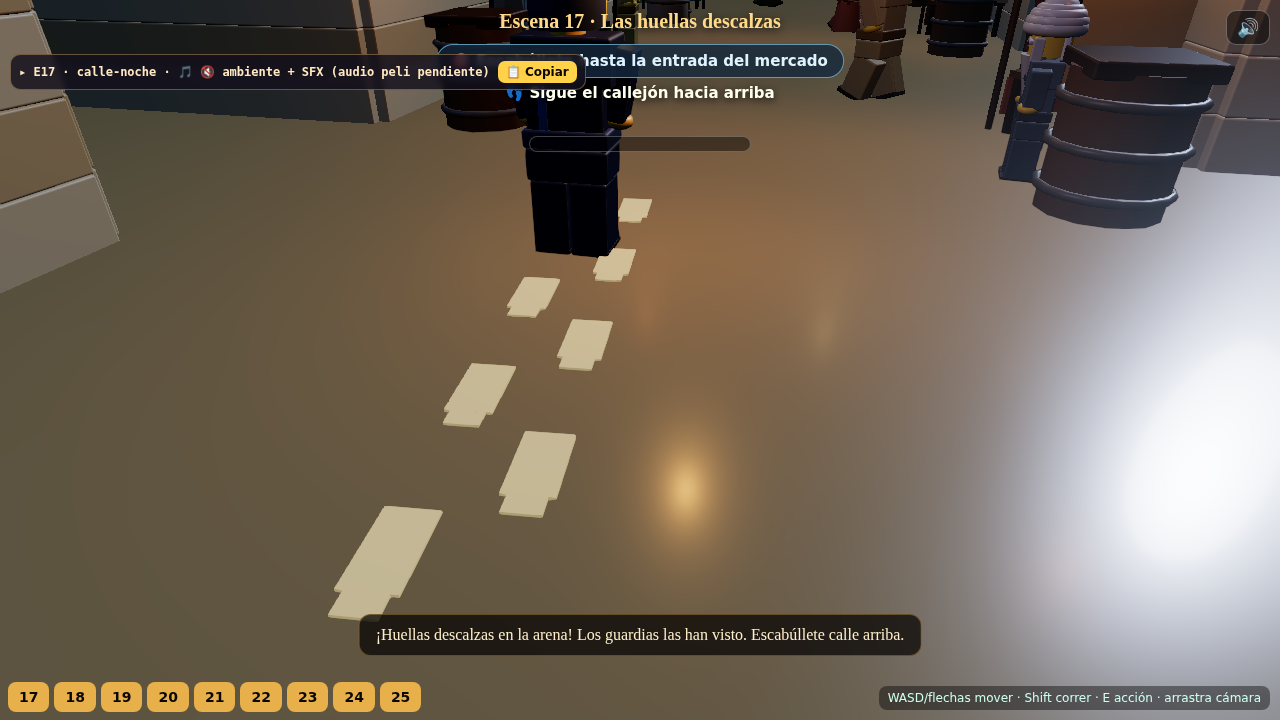
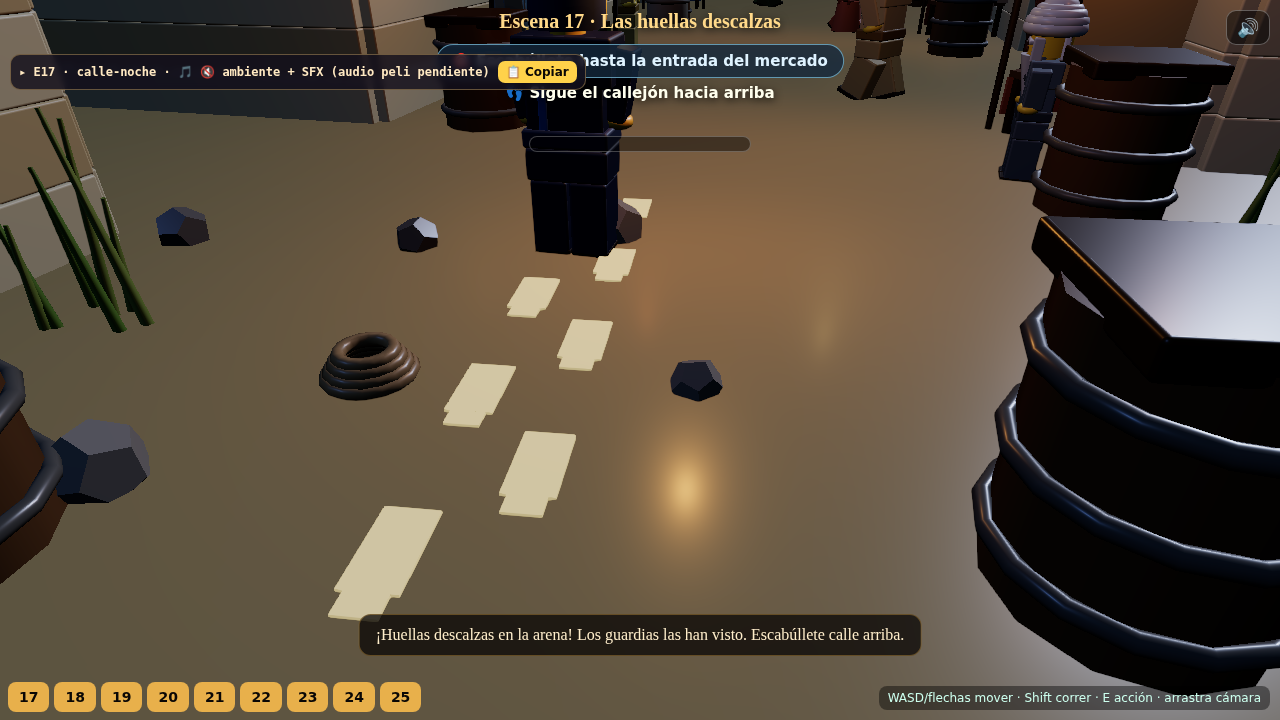
Noche C1: vestir la orilla al pie de la muralla (esc17) — REGLA Nº1
El primer plano de la esc17 (z<0, de donde vienen los espías) estaba pelado.
Relleno con gusto reutilizando piezas: cañaveral que ondea, cestos/barriles
varados (buildBarrel), ovillo de cuerda y cantos rodados, a los lados y detrás
del spawn -> no estorban el paso al mercado.

Build OK (vite build principal + preview single-file), 0 errores de consola
(esc17 headless). Captura tracked regenerada.

Claude-Session: https://claude.ai/code/session_015WLDEivXXZbK5n9bBPcdg3

diff --git a/mundo-ladrillos/src/scenes/min10/escena17_huellas.ts b/mundo-ladrillos/src/scenes/min10/escena17_huellas.ts
@@ -4,6 +4,7 @@ import { buildStreetStage, StreetStageHandle } from './props/stage';
 import { buildFootprints } from './props/RugHide';
 import { buildGuard } from '../min05/props/Guard';
 import { Npc } from '../min05/props/Npc';
+import { brickBox, buildBarrel } from '../min05/props/BrickProps';
 
 /**
  * ESCENA 17 (10:05) — LAS HUELLAS DESCALZAS.
@@ -39,6 +40,36 @@ export const escena17: Min10Scene = {
     const prints = buildFootprints(ctx.plastic, { ax: 1, az: -7, bx: 2, bz: 2, count: 8 });
     group.add(prints.group);
 
+    // ---- ORILLA VESTIDA al pie de la muralla (REGLA Nº1: nada pelado) ----
+    // El primer plano (z<0, de donde vienen los espías) estaba desnudo. Lo lleno con
+    // gusto reutilizando piezas: cañaveral que ondea, cestos/barriles varados, un
+    // ovillo de cuerda (con el que cruzaron) y cantos rodados. Todo a los lados y
+    // detrás del spawn → no estorba el paso hacia el mercado (+z).
+    const P = ctx.plastic;
+    const shore = new THREE.Group(); group.add(shore);
+    const reeds: THREE.Mesh[] = [];
+    const reedClump = (cx: number, cz: number, n: number): void => {
+      for (let i = 0; i < n; i++) {
+        const h = 1.6 + Math.random() * 1.6;
+        const r = new THREE.Mesh(new THREE.CylinderGeometry(0.03, 0.09, h, 5), P.get(i % 2 ? 0x6f8f3a : 0x8a9a4a));
+        r.position.set(cx + (Math.random() - 0.5) * 1.2, h / 2 - 0.2, cz + (Math.random() - 0.5) * 1.2);
+        r.rotation.z = (Math.random() - 0.5) * 0.3; r.castShadow = true;
+        (r as unknown as { __ph: number }).__ph = Math.random() * 6.28;
+        shore.add(r); reeds.push(r);
+      }
+    };
+    reedClump(-8, -3, 7); reedClump(-6.5, -8, 6); reedClump(7.5, -4, 7); reedClump(6, -9, 5); reedClump(-9, 2, 4);
+    // cestos/barriles varados + ovillo de cuerda (con el que treparon)
+    [[-4.5, -6], [5.5, -8], [-7, -10]].forEach(([x, z]) => { const b = buildBarrel(P); b.position.set(x, 0, z); b.rotation.y = Math.random() * 3; shore.add(b); });
+    const coil = new THREE.Group(); coil.position.set(3.2, 0, -4.5); shore.add(coil);
+    for (let i = 0; i < 4; i++) { const ring = new THREE.Mesh(new THREE.TorusGeometry(0.5 - i * 0.06, 0.09, 6, 16), P.get(0xa9895f)); ring.rotation.x = Math.PI / 2; ring.position.y = 0.1 + i * 0.09; coil.add(ring); }
+    // cantos rodados dispersos
+    for (let i = 0; i < 9; i++) {
+      const s = 0.25 + Math.random() * 0.4;
+      const rock = new THREE.Mesh(new THREE.DodecahedronGeometry(s, 0), P.get(i % 2 ? 0x9a9184 : 0x7d746a));
+      rock.position.set((Math.random() - 0.5) * 18, s * 0.4, -10 + Math.random() * 11); rock.rotation.set(Math.random(), Math.random(), Math.random()); rock.castShadow = true; shore.add(rock);
+    }
+
     // dos guardias a los lados examinando las huellas (salen "alerta" al verte pasar)
     const g1 = buildGuard(ctx.plastic, -6, -9, 0.6, false);
     const g2 = buildGuard(ctx.plastic, 6, -9, -0.6, true);
@@ -58,6 +89,7 @@ export const escena17: Min10Scene = {
       update(dt, t, player): void {
         street.update(dt, t);
         prints.update(t);
+        for (const r of reeds) { const ph = (r as unknown as { __ph: number }).__ph; r.rotation.z = Math.sin(t * 1.6 + ph) * 0.18; }
         // los guardias miran las huellas con leve vaivén
         g1.root.rotation.y = 0.3 + Math.sin(t * 1.2) * 0.15;
         g2.root.rotation.y = -0.3 + Math.sin(t * 1.1 + 1) * 0.15;

diff --git a/mundo-ladrillos/coordinacion/min10-15.md b/mundo-ladrillos/coordinacion/min10-15.md
@@ -1,5 +1,15 @@
 # Creador 10–15 · "La posada de Rahab" (rama `claude/min-10-15-rajav-jordan`)
 
+## 🌙 TURNO DE NOCHE — bitácora (señales de vida ~30 min)
+Trabajo autónomo mientras el usuario duerme. REGLA Nº1: ningún escenario pelado.
+Solo mi rama + `src/scenes/min10/`. `npx vite build` OK antes de cada push.
+- **23:05 UTC · Ciclo 1 — esc17 orilla vestida.** El primer plano al pie de la muralla
+  (z<0: solo huellas + 2 guardias) estaba pelado. Añadido cañaveral que ondea, cestos/
+  barriles varados, ovillo de cuerda (con el que treparon) y cantos rodados, a los lados
+  y detrás del spawn (no estorban el paso al mercado). Build OK · 0 errores de consola ·
+  captura regenerada. Push hecho.
+
+
 ## ◀ RESPUESTA A CEREBRO — ✅ "EL PRECIOSO" ENCHUFADO (2026-07-26, noche)
 **Desbloqueado y HECHO.** El helper sí estaba en `munecos-ifepfa` (mi ref remota estaba
 *stale*; el archivo aparece en su HEAD real `73294c8`, no en el commit que yo veía). Lo
